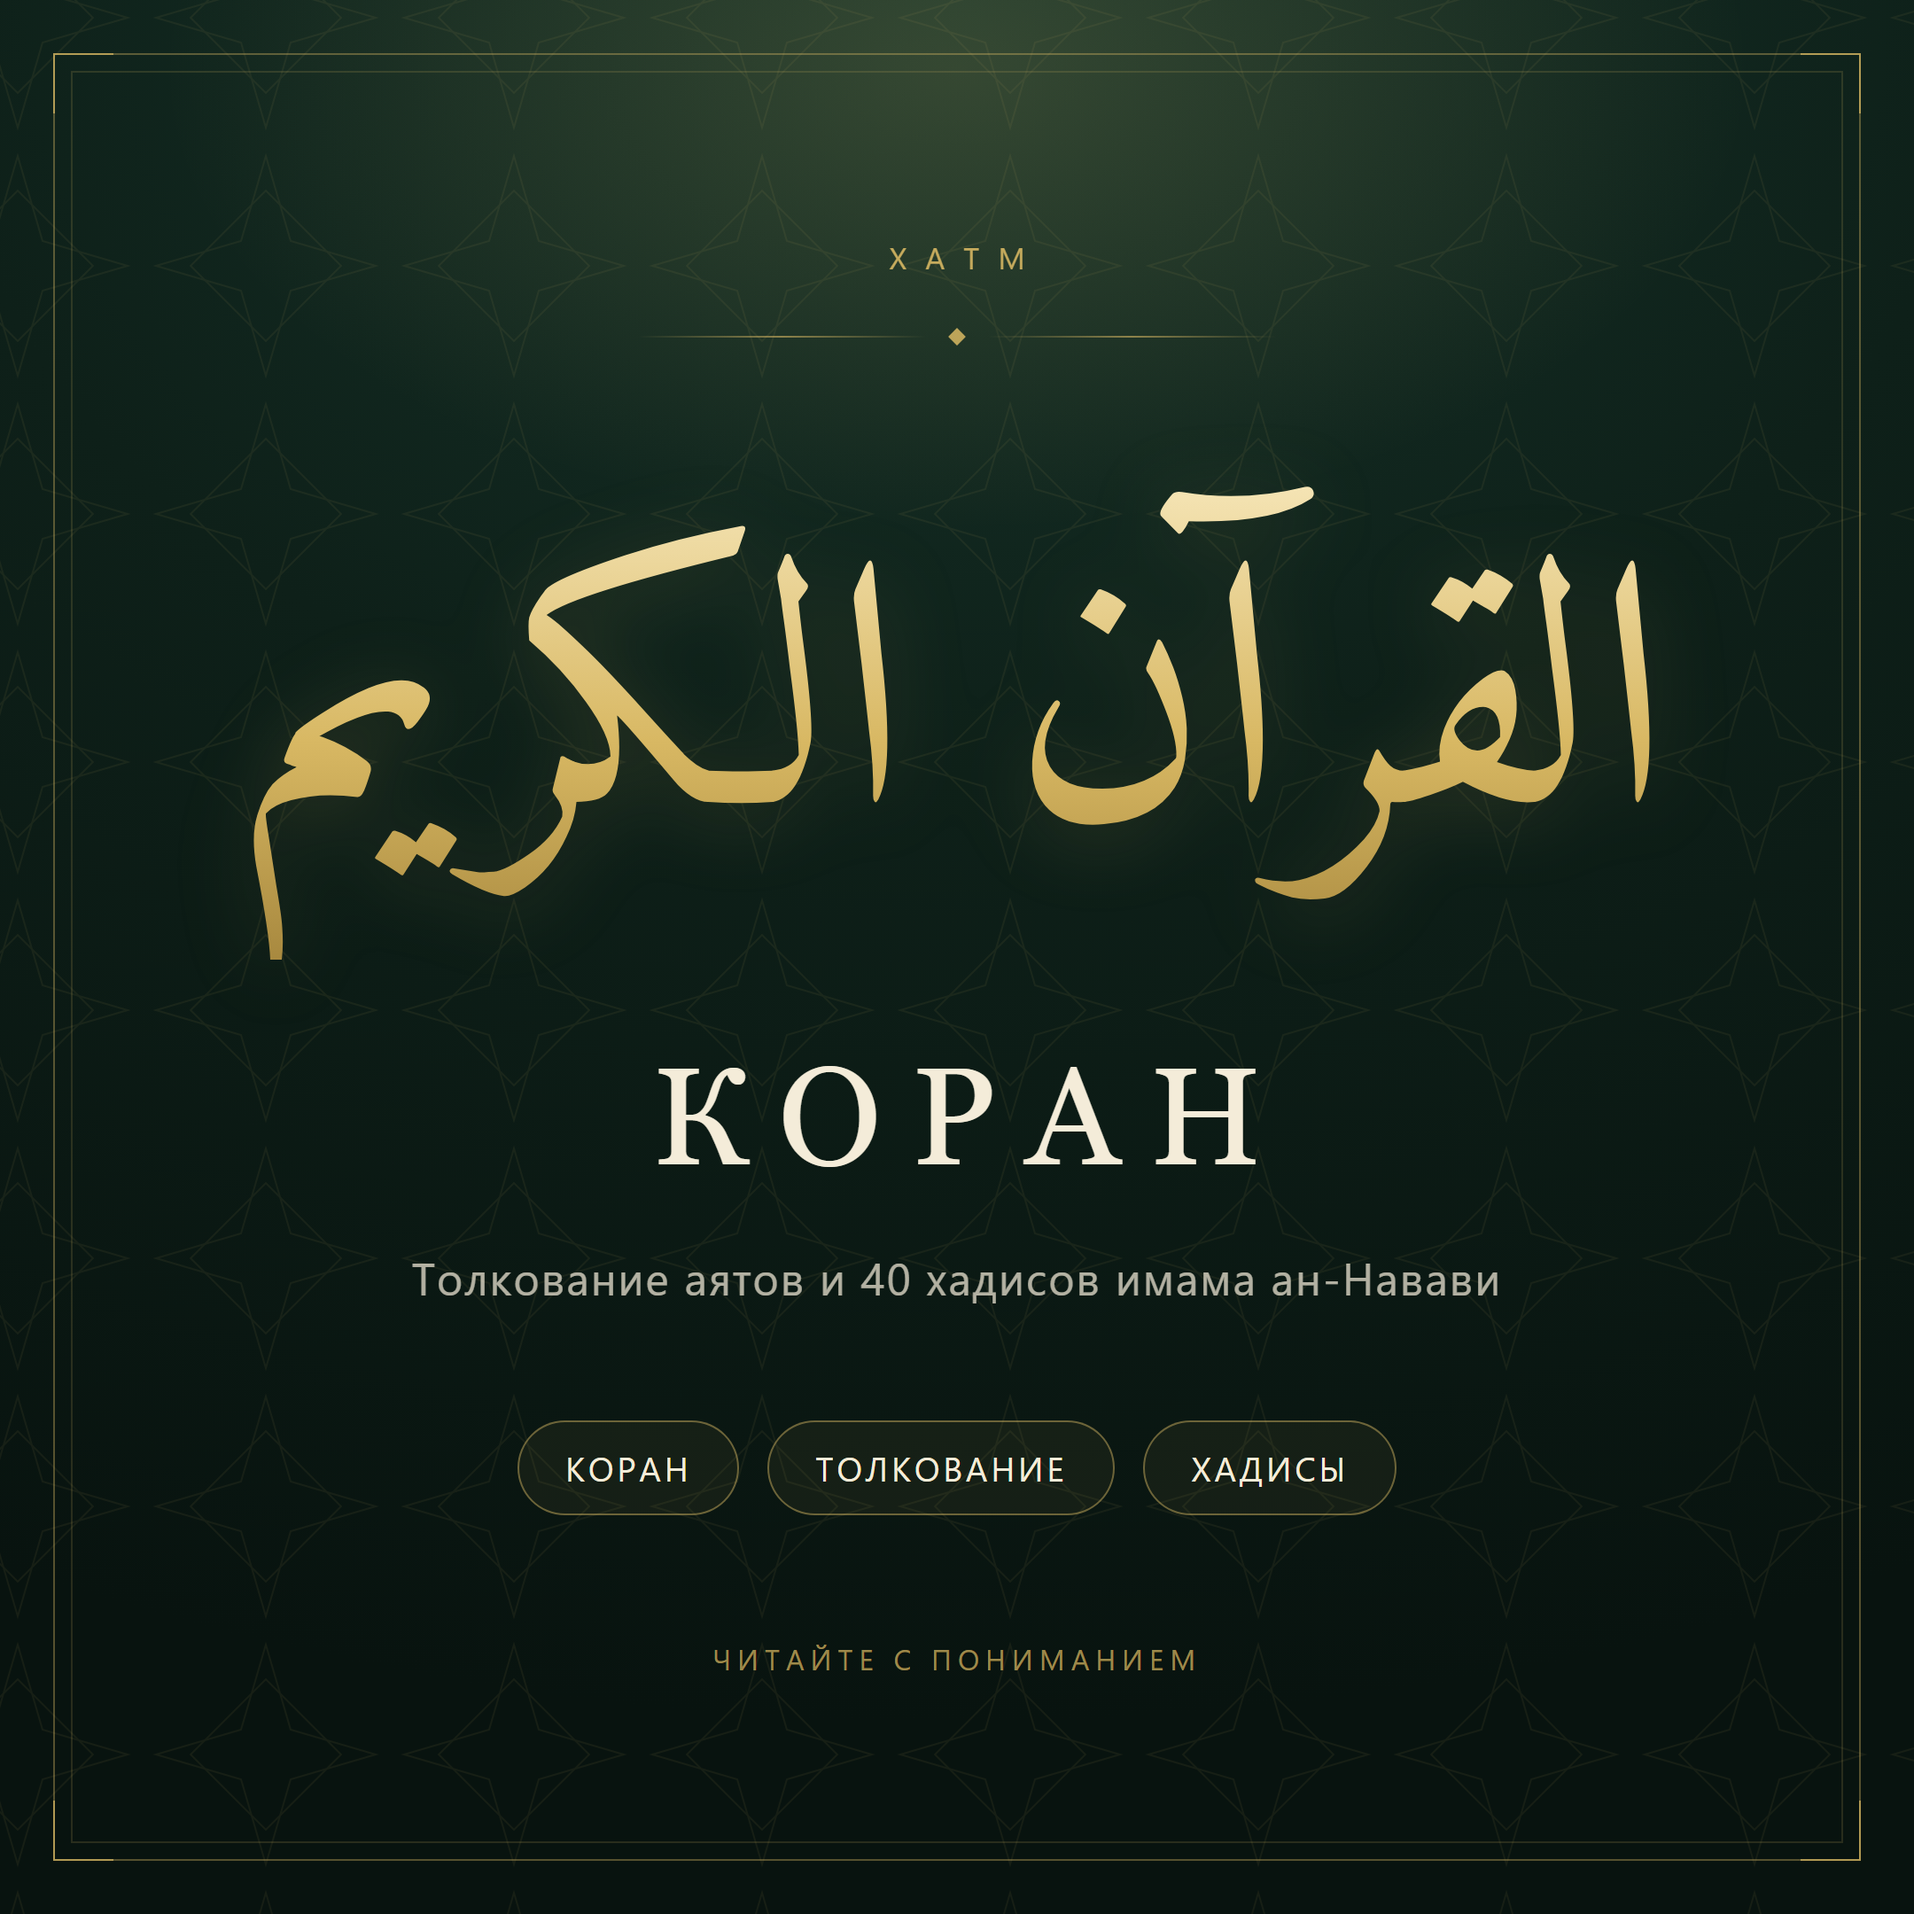
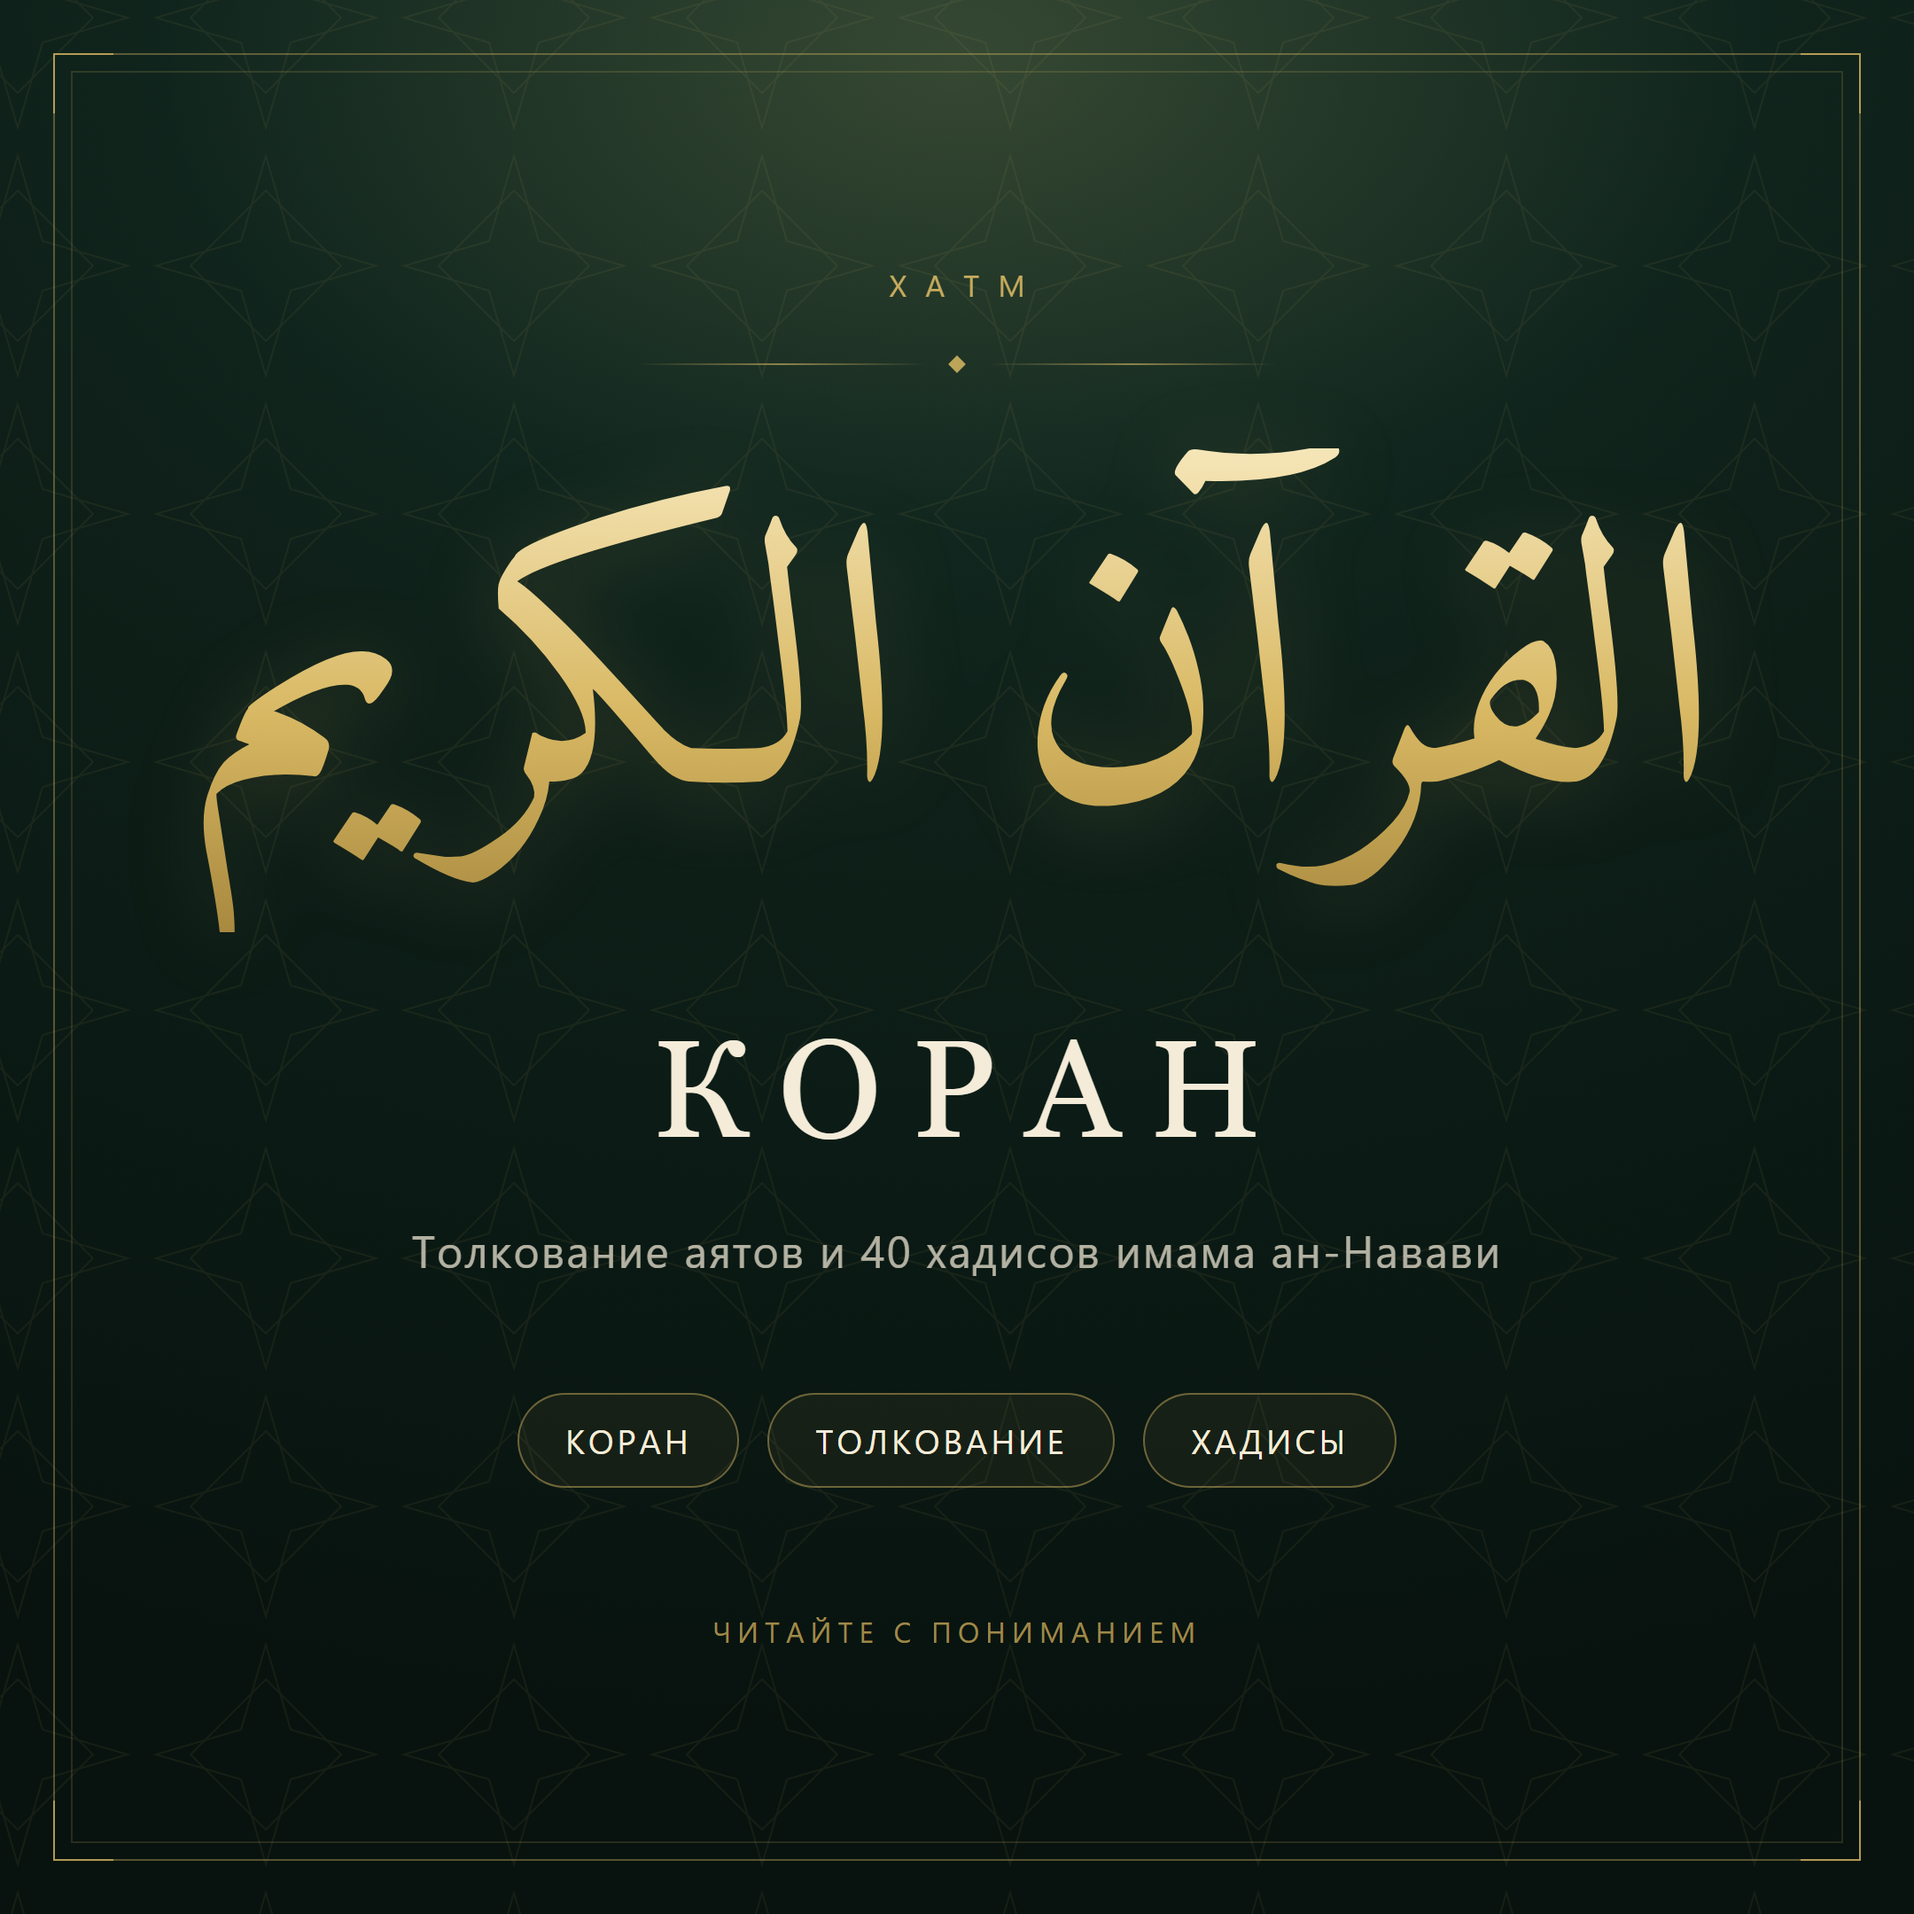
Обложка: арабский текст ещё крупнее

diff --git a/assets/promo/poster.html b/assets/promo/poster.html
@@ -146,10 +146,11 @@
   }
 
   .arabic {
-    margin-top: 34px;
+    margin-top: 26px;
     font-family: "Amiri", "Traditional Arabic", "Segoe UI", "Arial", serif;
-    font-size: 142px;
-    line-height: 1.4;
+    font-size: 178px;
+    line-height: 1.3;
+    white-space: nowrap;
     direction: rtl;
     unicode-bidi: isolate;
     background: linear-gradient(180deg, #f6e6b8 0%, #d8b863 55%, #a8893f 100%);
@@ -205,8 +206,8 @@
   }
 
   /* Квадратная версия */
-  #poster.square .content { padding: 0 100px; }
-  #poster.square .arabic { font-size: 196px; margin-top: 74px; }
+  #poster.square .content { padding: 0 56px; }
+  #poster.square .arabic { font-size: 210px; margin-top: 44px; line-height: 1.3; }
   #poster.square .title { font-size: 78px; margin-top: 44px; }
   #poster.square .subtitle { font-size: 25px; margin-top: 28px; line-height: 1.5; }
   #poster.square .chips { margin-top: 62px; gap: 16px; }
